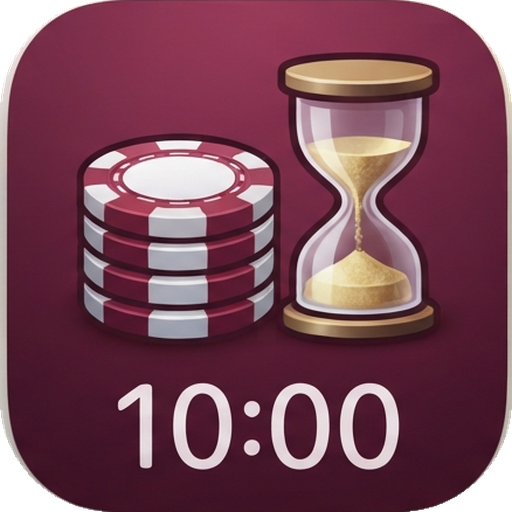
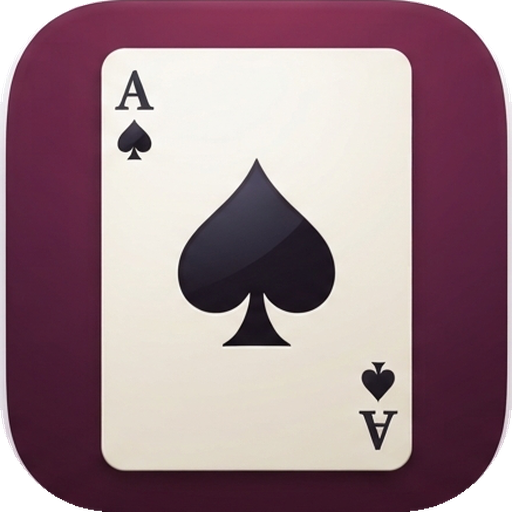
앱 아이콘 교체 (스페이드 에이스)
Claude-Session: https://claude.ai/code/session_017kayYfQtngdP7TTZtVmExg

diff --git a/sw.js b/sw.js
@@ -1,6 +1,6 @@
 // Network-first service worker: always try the live page so updates show up on the next open,
 // fall back to the cached copy when the bar's wifi drops.
-const CACHE = 'holdem-timer-v2';
+const CACHE = 'holdem-timer-v3';
 const ASSETS = ['./', './index.html', './manifest.webmanifest', './icons/icon-192.png', './icons/icon-512.png', './icons/apple-touch-icon.png'];
 
 self.addEventListener('install', (e) => {
